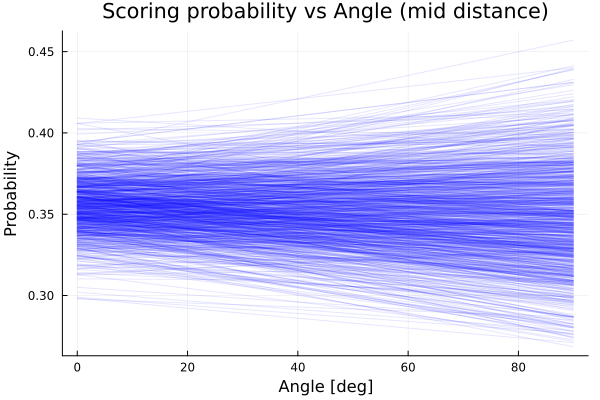
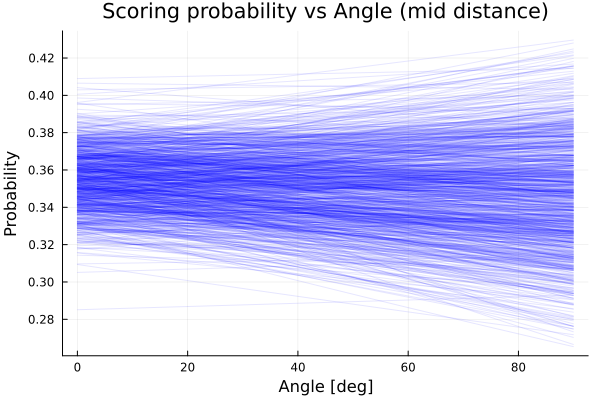
More corrections to chapter 8

Changed region(s): [[0.03, 0.09, 0.96, 0.87], [0.12, 0.9, 0.15, 0.93]]

diff --git a/docs/basketball-shots.html b/docs/basketball-shots.html
@@ -221,7 +221,7 @@ code span.wa { color: #60a0b0; font-weight: bold; font-style: italic; } /* Warni
 <ul>
 <li class="chapter" data-level="8.3.1" data-path="basketball-shots.html"><a href="basketball-shots.html#defining-the-new-model-and-computing-posteriors"><i class="fa fa-check"></i><b>8.3.1</b> Defining the new model and computing posteriors</a></li>
 </ul></li>
-<li class="chapter" data-level="8.4" data-path="basketball-shots.html"><a href="basketball-shots.html#does-the-period-affect-the-probability-of-scoring"><i class="fa fa-check"></i><b>8.4</b> Does the Period affect the probability of scoring?</a></li>
+<li class="chapter" data-level="8.4" data-path="basketball-shots.html"><a href="basketball-shots.html#does-the-period-affect-the-scoring-probability"><i class="fa fa-check"></i><b>8.4</b> Does the Period affect the scoring probability?</a></li>
 <li class="chapter" data-level="8.5" data-path="basketball-shots.html"><a href="basketball-shots.html#summary-6"><i class="fa fa-check"></i><b>8.5</b> Summary</a></li>
 </ul></li>
 <li class="chapter" data-level="9" data-path="optimal-pricing.html"><a href="optimal-pricing.html"><i class="fa fa-check"></i><b>9</b> Optimal pricing</a>
@@ -424,7 +424,7 @@ We update our model as follows:</p>
 <span id="cb13-4"><a href="basketball-shots.html#cb13-4" aria-hidden="true" tabindex="-1"></a><span class="cf">end</span></span>
 <span id="cb13-5"><a href="basketball-shots.html#cb13-5" aria-hidden="true" tabindex="-1"></a><span class="fu">xlabel!</span>(<span class="st">&quot;Normalized distance&quot;</span>);</span>
 <span id="cb13-6"><a href="basketball-shots.html#cb13-6" aria-hidden="true" tabindex="-1"></a><span class="fu">ylabel!</span>(<span class="st">&quot;Predicted probability&quot;</span>);</span>
-<span id="cb13-7"><a href="basketball-shots.html#cb13-7" aria-hidden="true" tabindex="-1"></a><span class="fu">title!</span>(<span class="st">&quot;Prior predictive values for p with negative LogNormal prior&quot;</span>)</span></code></pre></div>
+<span id="cb13-7"><a href="basketball-shots.html#cb13-7" aria-hidden="true" tabindex="-1"></a><span class="fu">title!</span>(<span class="st">&quot;Prior predictive values with negative LogNormal prior&quot;</span>)</span></code></pre></div>
 <p><img src="data_science_in_julia_for_hackers_files/figure-html/chap_8_plot_9-J1.png" /><!-- --></p>
 <p>Now the behavior we can see from the predicted <span class="math inline">\(p\)</span> curves is the expected. As the shooting distance increases, the probability of scoring decreases.
 We have set some boundaries in the form of a different prior probability distribution. This process is what is called prior-predictive checks.
@@ -474,38 +474,46 @@ what is showed next to each traceplot.</p>
 <span id="cb20-6"><a href="basketball-shots.html#cb20-6" aria-hidden="true" tabindex="-1"></a><span class="fu">ylabel!</span>(<span class="st">&quot;Probability&quot;</span>);</span>
 <span id="cb20-7"><a href="basketball-shots.html#cb20-7" aria-hidden="true" tabindex="-1"></a><span class="fu">title!</span>(<span class="st">&quot;Scoring probability vs Normalized distance (angle=45°)&quot;</span>)</span></code></pre></div>
 <p><img src="data_science_in_julia_for_hackers_files/figure-html/chap_8_plot_11-J1.png" /><!-- --></p>
-<p>The plot shows that the probability of scoring is higher as our distance to the hoop decrease, which makes sense, since the difficulty of
-scoring increase.</p>
-<p>We plot now how the probability varies with the angle for a given distance. Here we plot for a mid distance, corresponding to 0.5 in a
-normalized distance.</p>
+<p>We clearly see how our initial beliefs got adjusted with the data. Although initially the decreasing scoring probability with increasing distance
+behavior was correct, there was a lot of uncertainty about the expected value. What this last plot shows is how the possible values of <code>p</code> narrowed
+as we updated our beliefs with data.</p>
+<p>We already plotted how the scoring probability changes with respect to the distance from the hoop, but what about the angle? In principle, we
+could think that this should not be too relevant, since there is no special advantage on changing the angle from where we make our shot, but let’s
+see what does our model say when showing some real data to it. Just to keep the distance constant and only take into account the angle change, we
+plot for a miiddle distance, i.e., <span class="math inline">\(0.5\)</span> in a normalized distance.</p>
 <div class="sourceCode" id="cb21"><pre class="sourceCode julia"><code class="sourceCode julia"><span id="cb21-1"><a href="basketball-shots.html#cb21-1" aria-hidden="true" tabindex="-1"></a>p_constant_distance <span class="op">=</span> []</span>
 <span id="cb21-2"><a href="basketball-shots.html#cb21-2" aria-hidden="true" tabindex="-1"></a><span class="cf">for</span> i <span class="kw">in</span> <span class="fl">1</span><span class="op">:</span><span class="fu">length</span>(chain[<span class="op">:</span>a])</span>
 <span id="cb21-3"><a href="basketball-shots.html#cb21-3" aria-hidden="true" tabindex="-1"></a>    <span class="fu">push!</span>(p_constant_distance, <span class="fu">logistic</span>.(chain[<span class="op">:</span>a][i] <span class="op">.-</span> chain[<span class="op">:</span>b][i]<span class="op">.*</span><span class="fl">0.5</span> <span class="op">.+</span> chain[<span class="op">:</span>c][i]<span class="op">.*</span>possible_angles));</span>
 <span id="cb21-4"><a href="basketball-shots.html#cb21-4" aria-hidden="true" tabindex="-1"></a><span class="cf">end</span></span></code></pre></div>
-<div class="sourceCode" id="cb22"><pre class="sourceCode julia"><code class="sourceCode julia"><span id="cb22-1"><a href="basketball-shots.html#cb22-1" aria-hidden="true" tabindex="-1"></a><span class="fu">plot</span>(<span class="fu">rad2deg</span>.(possible_angles),p_constant_distance[<span class="fl">1</span>], legend<span class="op">=</span><span class="cn">false</span>, alpha<span class="op">=</span><span class="fl">0.1</span>, color<span class="op">=:</span>blue);</span>
+<div class="sourceCode" id="cb22"><pre class="sourceCode julia"><code class="sourceCode julia"><span id="cb22-1"><a href="basketball-shots.html#cb22-1" aria-hidden="true" tabindex="-1"></a><span class="fu">plot</span>(<span class="fu">rad2deg</span>.(possible_angles), p_constant_distance[<span class="fl">1</span>], legend<span class="op">=</span><span class="cn">false</span>, alpha<span class="op">=</span><span class="fl">0.1</span>, color<span class="op">=:</span>blue);</span>
 <span id="cb22-2"><a href="basketball-shots.html#cb22-2" aria-hidden="true" tabindex="-1"></a><span class="cf">for</span> i <span class="kw">in</span> <span class="fl">2</span><span class="op">:</span><span class="fl">1000</span></span>
-<span id="cb22-3"><a href="basketball-shots.html#cb22-3" aria-hidden="true" tabindex="-1"></a>    <span class="fu">plot!</span>(<span class="fu">rad2deg</span>.(possible_angles),p_constant_distance[i], alpha<span class="op">=</span><span class="fl">0.1</span>, color<span class="op">=:</span>blue);</span>
+<span id="cb22-3"><a href="basketball-shots.html#cb22-3" aria-hidden="true" tabindex="-1"></a>    <span class="fu">plot!</span>(<span class="fu">rad2deg</span>.(possible_angles), p_constant_distance[i], alpha<span class="op">=</span><span class="fl">0.1</span>, color<span class="op">=:</span>blue);</span>
 <span id="cb22-4"><a href="basketball-shots.html#cb22-4" aria-hidden="true" tabindex="-1"></a><span class="cf">end</span></span>
 <span id="cb22-5"><a href="basketball-shots.html#cb22-5" aria-hidden="true" tabindex="-1"></a><span class="fu">xlabel!</span>(<span class="st">&quot;Angle [deg]&quot;</span>);</span>
 <span id="cb22-6"><a href="basketball-shots.html#cb22-6" aria-hidden="true" tabindex="-1"></a><span class="fu">ylabel!</span>(<span class="st">&quot;Probability&quot;</span>);</span>
 <span id="cb22-7"><a href="basketball-shots.html#cb22-7" aria-hidden="true" tabindex="-1"></a><span class="fu">title!</span>(<span class="st">&quot;Scoring probability vs Angle (mid distance)&quot;</span>)</span></code></pre></div>
 <p><img src="data_science_in_julia_for_hackers_files/figure-html/chap_8_plot_13-J1.png" /><!-- --></p>
-<p>We see that the model predicts almost constant probability as we vary the angle. This makes sense, considering that the angle doesn’t seem too
-relevant when shooting; the distance from the hoop is the relevant variable.</p>
+<p>We see that the model predicts almost constant average probability as we vary the angle.
+This is consistent with what we already suspected, although we see there is more uncertainty about the scoring probability as we move from
+0° to 90°. In conclusion, the angle doesn’t seem too important when shooting; the distance from the hoop is the relevant variable.</p>
 </div>
 </div>
 </div>
 <div id="new-model-and-prior-predictive-checks-part-ii" class="section level2 hasAnchor" number="8.3">
 <h2><span class="header-section-number">8.3</span> New model and prior predictive checks: Part II<a href="basketball-shots.html#new-model-and-prior-predictive-checks-part-ii" class="anchor-section" aria-label="Anchor link to header"></a></h2>
+<p>&lt;Why was this model chosen?&gt;</p>
 <p>Now we propose another model with the form:</p>
-<p><span class="math inline">\(p\sim logistic(a+ b^{distance[i]} + c*angle[i])\)</span></p>
-<p>*But for what values of b the model makes sense?</p>
-<p>We show below the plot for 4 function with 4 possible values of <span class="math inline">\(b\)</span>, having in mind that the values of <span class="math inline">\(x\)</span>, the normalized distance, goes
-from 0 to 1.</p>
+<p><span class="math inline">\(p\sim logistic(a + b^{distance[i]} + c*angle[i])\)</span></p>
+<p>*But for what values of b the model makes sense?
+Here we basically changed the dependence of the model with distance. We now have the parameter <span class="math inline">\(b\)</span> to the power of the distance from the hoop.
+We should ask ourselves, like we did with the other proposed models: Would every possible value of <span class="math inline">\(b\)</span> make sense? Let’s dig into this question.</p>
+<p>Below we plot four function with four different possible values of <span class="math inline">\(b\)</span>, having in mind that the values of <span class="math inline">\(x\)</span>, the normalized distance, goes
+from 0 to 1. These functions are</p>
 <div class="sourceCode" id="cb23"><pre class="sourceCode julia"><code class="sourceCode julia"><span id="cb23-1"><a href="basketball-shots.html#cb23-1" aria-hidden="true" tabindex="-1"></a><span class="fu">f1</span>(x) <span class="op">=</span> <span class="fl">0.3</span><span class="op">^</span>x</span>
 <span id="cb23-2"><a href="basketball-shots.html#cb23-2" aria-hidden="true" tabindex="-1"></a><span class="fu">f2</span>(x) <span class="op">=</span> <span class="fl">1.5</span><span class="op">^</span>x</span>
 <span id="cb23-3"><a href="basketball-shots.html#cb23-3" aria-hidden="true" tabindex="-1"></a><span class="fu">f3</span>(x) <span class="op">=</span> <span class="op">-</span><span class="fl">0.3</span><span class="op">^</span>x</span>
 <span id="cb23-4"><a href="basketball-shots.html#cb23-4" aria-hidden="true" tabindex="-1"></a><span class="fu">f4</span>(x) <span class="op">=</span> <span class="op">-</span><span class="fl">1.5</span><span class="op">^</span>x</span></code></pre></div>
+<p>and their plots are</p>
 <div class="sourceCode" id="cb24"><pre class="sourceCode julia"><code class="sourceCode julia"><span id="cb24-1"><a href="basketball-shots.html#cb24-1" aria-hidden="true" tabindex="-1"></a><span class="fu">plot</span>(<span class="fl">0</span><span class="op">:</span><span class="fl">0.01</span><span class="op">:</span><span class="fl">1</span>, f1, label<span class="op">=</span><span class="st">&quot;f1: b &lt; 1 &amp; b &gt; 0&quot;</span>, xlim<span class="op">=</span>(<span class="fl">0</span>,<span class="fl">1</span>), ylim<span class="op">=</span>(<span class="op">-</span><span class="fl">2</span>,<span class="fl">2</span>), lw<span class="op">=</span><span class="fl">3</span>);</span>
 <span id="cb24-2"><a href="basketball-shots.html#cb24-2" aria-hidden="true" tabindex="-1"></a><span class="fu">plot!</span>(<span class="fl">0</span><span class="op">:</span><span class="fl">0.01</span><span class="op">:</span><span class="fl">1</span>, f2, label<span class="op">=</span><span class="st">&quot;f2: b&gt;1&quot;</span>, lw<span class="op">=</span><span class="fl">3</span>);</span>
 <span id="cb24-3"><a href="basketball-shots.html#cb24-3" aria-hidden="true" tabindex="-1"></a><span class="fu">plot!</span>(<span class="fl">0</span><span class="op">:</span><span class="fl">0.01</span><span class="op">:</span><span class="fl">1</span>, f3, label<span class="op">=</span><span class="st">&quot;f3: b&lt;0 &amp; b&gt;-1&quot;</span>, lw<span class="op">=</span><span class="fl">3</span>);</span>
@@ -513,11 +521,14 @@ from 0 to 1.</p>
 <span id="cb24-5"><a href="basketball-shots.html#cb24-5" aria-hidden="true" tabindex="-1"></a><span class="fu">xlabel!</span>(<span class="st">&quot;Normalized distance&quot;</span>);</span>
 <span id="cb24-6"><a href="basketball-shots.html#cb24-6" aria-hidden="true" tabindex="-1"></a><span class="fu">title!</span>(<span class="st">&quot;Prior Predictive influence of distance&quot;</span>)</span></code></pre></div>
 <p><img src="data_science_in_julia_for_hackers_files/figure-html/chap_8_plot_14-J1.png" /><!-- --></p>
-<p>Analysing the possible values for <span class="math inline">\(b\)</span>, the one that makes sense is the value proposed in f1, since we want an increasing influence of the
-distance in the values of <span class="math inline">\(p\)</span> as the distance decreases, since the logistic function has higher values for higher values of x.
-So now that we know the values the our parameter <span class="math inline">\(b\)</span> can take, we propose for it a beta distribution with parameters α=2 and β=5, showed in
-the plot below.</p>
-<div class="sourceCode" id="cb25"><pre class="sourceCode julia"><code class="sourceCode julia"><span id="cb25-1"><a href="basketball-shots.html#cb25-1" aria-hidden="true" tabindex="-1"></a><span class="fu">plot</span>(<span class="fu">Beta</span>(<span class="fl">2</span>,<span class="fl">5</span>), xlim<span class="op">=</span>(<span class="op">-</span><span class="fl">0.1</span>,<span class="fl">1</span>), legend<span class="op">=</span><span class="cn">false</span>);</span>
+<p>As we can see, the qualitative behavior of these functions is different for each of the chosen values for <span class="math inline">\(b\)</span>. The only one of these values that
+is consistent with our common sense, is the one proposed for <span class="math inline">\(f_1\)</span>, as we want it to be a decreasing function for the distance variable. In other
+words, we want <span class="math inline">\(b\)</span> to be in the range from 0 to 1, and to be positive.
+Now that we have limited the range of values that <span class="math inline">\(b\)</span> can take, we should propose a probability distribution that satisfies the constraints the
+parameter should have. For this, we propose a Beta distribution with parameters <span class="math inline">\(α=2\)</span> and <span class="math inline">\(β=2\)</span>.
+We chose these distribution since it is only defined in the interval we are interesed on, and the value of the parameters so that the distribution
+is symmetrical, i.e., not biased towards the start or the end of the range from 0 to 1.</p>
+<div class="sourceCode" id="cb25"><pre class="sourceCode julia"><code class="sourceCode julia"><span id="cb25-1"><a href="basketball-shots.html#cb25-1" aria-hidden="true" tabindex="-1"></a><span class="fu">plot</span>(<span class="fu">Beta</span>(<span class="fl">2</span>,<span class="fl">2</span>), xlim<span class="op">=</span>(<span class="op">-</span><span class="fl">0.1</span>,<span class="fl">1</span>), legend<span class="op">=</span><span class="cn">false</span>);</span>
 <span id="cb25-2"><a href="basketball-shots.html#cb25-2" aria-hidden="true" tabindex="-1"></a><span class="fu">title!</span>(<span class="st">&quot;Prior distribution for b&quot;</span>)</span></code></pre></div>
 <p><img src="data_science_in_julia_for_hackers_files/figure-html/chap_8_plot_15-J1.png" /><!-- --></p>
 <div id="defining-the-new-model-and-computing-posteriors" class="section level3 hasAnchor" number="8.3.1">
@@ -527,7 +538,7 @@ the plot below.</p>
 <span id="cb26-2"><a href="basketball-shots.html#cb26-2" aria-hidden="true" tabindex="-1"></a>  N <span class="op">=</span> <span class="fu">length</span>(distances)</span>
 <span id="cb26-3"><a href="basketball-shots.html#cb26-3" aria-hidden="true" tabindex="-1"></a>  <span class="co"># Set priors.</span></span>
 <span id="cb26-4"><a href="basketball-shots.html#cb26-4" aria-hidden="true" tabindex="-1"></a>    a <span class="op">~</span> <span class="fu">Normal</span>(<span class="fl">0</span>,<span class="fl">1</span>) </span>
-<span id="cb26-5"><a href="basketball-shots.html#cb26-5" aria-hidden="true" tabindex="-1"></a>    b <span class="op">~</span> <span class="fu">Beta</span>(<span class="fl">2</span>,<span class="fl">5</span>)</span>
+<span id="cb26-5"><a href="basketball-shots.html#cb26-5" aria-hidden="true" tabindex="-1"></a>    b <span class="op">~</span> <span class="fu">Beta</span>(<span class="fl">2</span>,<span class="fl">2</span>)</span>
 <span id="cb26-6"><a href="basketball-shots.html#cb26-6" aria-hidden="true" tabindex="-1"></a>    c <span class="op">~</span> <span class="fu">Normal</span>(<span class="fl">0</span>,<span class="fl">1</span>)</span>
 <span id="cb26-7"><a href="basketball-shots.html#cb26-7" aria-hidden="true" tabindex="-1"></a>    <span class="cf">for</span> i <span class="kw">in</span> <span class="fl">1</span><span class="op">:</span>n</span>
 <span id="cb26-8"><a href="basketball-shots.html#cb26-8" aria-hidden="true" tabindex="-1"></a>        p <span class="op">=</span> <span class="fu">logistic</span>(a <span class="op">+</span>  b <span class="op">.^</span> distances[i] <span class="op">+</span> c<span class="op">*</span>angles[i])</span>
@@ -555,7 +566,7 @@ shown below.</p>
 <span id="cb31-6"><a href="basketball-shots.html#cb31-6" aria-hidden="true" tabindex="-1"></a><span class="fu">ylabel!</span>(<span class="st">&quot;Probability&quot;</span>);</span>
 <span id="cb31-7"><a href="basketball-shots.html#cb31-7" aria-hidden="true" tabindex="-1"></a><span class="fu">title!</span>(<span class="st">&quot;Scoring probability vs Normalized distance (angle=45°)&quot;</span>)</span></code></pre></div>
 <p><img src="data_science_in_julia_for_hackers_files/figure-html/chap_8_plot_17-J1.png" /><!-- --></p>
-<p>Given that we have 2 variables, we can plot the mean probability of scoring as function of the two and obtain a surface plot. We show this below.</p>
+<p>Given that we have 2 variables, we can plot the mean probability of scoring as function of the two and obtain a surface plot, too:</p>
 <div class="sourceCode" id="cb32"><pre class="sourceCode julia"><code class="sourceCode julia"><span id="cb32-1"><a href="basketball-shots.html#cb32-1" aria-hidden="true" tabindex="-1"></a>angle_ <span class="op">=</span> <span class="fu">collect</span>(<span class="fu">range</span>(<span class="fl">0</span>, stop<span class="op">=</span><span class="cn">π</span><span class="op">/</span><span class="fl">2</span>, length<span class="op">=</span><span class="fl">100</span>))</span>
 <span id="cb32-2"><a href="basketball-shots.html#cb32-2" aria-hidden="true" tabindex="-1"></a>dist_ <span class="op">=</span> <span class="fu">collect</span>(<span class="fu">range</span>(<span class="fl">0</span>, stop<span class="op">=</span><span class="fl">1</span>, length<span class="op">=</span><span class="fl">100</span>))</span>
 <span id="cb32-3"><a href="basketball-shots.html#cb32-3" aria-hidden="true" tabindex="-1"></a>it <span class="op">=</span> <span class="bu">Iterators</span>.<span class="fu">product</span>(angle_, dist_)</span>
@@ -565,30 +576,31 @@ shown below.</p>
 <span id="cb32-7"><a href="basketball-shots.html#cb32-7" aria-hidden="true" tabindex="-1"></a>dist_grid <span class="op">=</span> <span class="fu">getindex</span>.(values,[<span class="fl">2</span>])</span>
 <span id="cb32-8"><a href="basketball-shots.html#cb32-8" aria-hidden="true" tabindex="-1"></a>z <span class="op">=</span> <span class="fu">logistic</span>.(<span class="fu">mean</span>(chain_exp[<span class="op">:</span>a]) <span class="op">.+</span> <span class="fu">mean</span>(chain_exp[<span class="op">:</span>b])<span class="op">.^</span>dist_grid <span class="op">.+</span> <span class="fu">mean</span>(chain_exp[<span class="op">:</span>c])<span class="op">.*</span>angle_grid)</span></code></pre></div>
 <p><img src="data_science_in_julia_for_hackers_files/figure-html/chap_8_plot_18-J1.png" /><!-- --></p>
-<p>The plot show the behaviour expected, an increasing probability of scoring as we get near the hoop. We also see that there is almost no variation
+<p>The plot shows the expected behavior, an increasing probability of scoring as we get near the hoop. We also see that there is almost no variation
 of the probability with the angle.</p>
 </div>
 </div>
-<div id="does-the-period-affect-the-probability-of-scoring" class="section level2 hasAnchor" number="8.4">
-<h2><span class="header-section-number">8.4</span> Does the Period affect the probability of scoring?<a href="basketball-shots.html#does-the-period-affect-the-probability-of-scoring" class="anchor-section" aria-label="Anchor link to header"></a></h2>
-<p>Now we will try to answer this question. We propose then a model, and calculate the posterior for its parameters with data of one of each of the
-four possible periods. We define the same model for all four periods. Also, we don’t take into account now the angle variable, since we have seen
-before that this variable is of little importance.</p>
-<p>We filter then our data by its period and proceed to estimate our posterior distributions.</p>
-<div class="sourceCode" id="cb33"><pre class="sourceCode julia"><code class="sourceCode julia"><span id="cb33-1"><a href="basketball-shots.html#cb33-1" aria-hidden="true" tabindex="-1"></a>shots_period1<span class="op">=</span> <span class="fu">filter</span>(x <span class="op">-&gt;</span> x.period <span class="op">==</span> <span class="fl">1</span>, shots)</span></code></pre></div>
+<div id="does-the-period-affect-the-scoring-probability" class="section level2 hasAnchor" number="8.4">
+<h2><span class="header-section-number">8.4</span> Does the Period affect the scoring probability?<a href="basketball-shots.html#does-the-period-affect-the-scoring-probability" class="anchor-section" aria-label="Anchor link to header"></a></h2>
+<p>We have been using the scoring data across all periods, but what about how the scoring probability changes across periods?
+We will propose a model and calculate the posterior for its parameters with scoring data of each of the four possible periods. The exact
+same model for all four periods will be used. The angle variable will be discarded from the model, as we have already saw that is of little
+importance.</p>
+<p>We filter our data by period and proceed to estimate our posterior distributions.</p>
+<div class="sourceCode" id="cb33"><pre class="sourceCode julia"><code class="sourceCode julia"><span id="cb33-1"><a href="basketball-shots.html#cb33-1" aria-hidden="true" tabindex="-1"></a>shots_period1 <span class="op">=</span> <span class="fu">filter</span>(x <span class="op">-&gt;</span> x.period <span class="op">==</span> <span class="fl">1</span>, shots)</span></code></pre></div>
 <div class="sourceCode" id="cb34"><pre class="sourceCode julia"><code class="sourceCode julia"><span id="cb34-1"><a href="basketball-shots.html#cb34-1" aria-hidden="true" tabindex="-1"></a><span class="pp">@model</span> <span class="fu">logistic_regression_period</span>(distances, result,n) <span class="op">=</span> <span class="cf">begin</span></span>
 <span id="cb34-2"><a href="basketball-shots.html#cb34-2" aria-hidden="true" tabindex="-1"></a>  N <span class="op">=</span> <span class="fu">length</span>(distances)</span>
 <span id="cb34-3"><a href="basketball-shots.html#cb34-3" aria-hidden="true" tabindex="-1"></a>  <span class="co"># Set priors.</span></span>
 <span id="cb34-4"><a href="basketball-shots.html#cb34-4" aria-hidden="true" tabindex="-1"></a>    a <span class="op">~</span> <span class="fu">Normal</span>(<span class="fl">0</span>,<span class="fl">1</span>) </span>
 <span id="cb34-5"><a href="basketball-shots.html#cb34-5" aria-hidden="true" tabindex="-1"></a>    b <span class="op">~</span> <span class="fu">Beta</span>(<span class="fl">2</span>,<span class="fl">5</span>)</span>
 <span id="cb34-6"><a href="basketball-shots.html#cb34-6" aria-hidden="true" tabindex="-1"></a>    <span class="cf">for</span> i <span class="kw">in</span> <span class="fl">1</span><span class="op">:</span>n</span>
-<span id="cb34-7"><a href="basketball-shots.html#cb34-7" aria-hidden="true" tabindex="-1"></a>        p <span class="op">=</span> <span class="fu">logistic</span>( a <span class="op">+</span>  b <span class="op">.^</span> distances[i])</span>
+<span id="cb34-7"><a href="basketball-shots.html#cb34-7" aria-hidden="true" tabindex="-1"></a>        p <span class="op">=</span> <span class="fu">logistic</span>(a <span class="op">+</span>  b <span class="op">.^</span> distances[i])</span>
 <span id="cb34-8"><a href="basketball-shots.html#cb34-8" aria-hidden="true" tabindex="-1"></a>        result[i] <span class="op">~</span> <span class="fu">Bernoulli</span>(p)</span>
 <span id="cb34-9"><a href="basketball-shots.html#cb34-9" aria-hidden="true" tabindex="-1"></a>    <span class="cf">end</span></span>
 <span id="cb34-10"><a href="basketball-shots.html#cb34-10" aria-hidden="true" tabindex="-1"></a><span class="cf">end</span></span></code></pre></div>
 <div class="sourceCode" id="cb35"><pre class="sourceCode julia"><code class="sourceCode julia"><span id="cb35-1"><a href="basketball-shots.html#cb35-1" aria-hidden="true" tabindex="-1"></a>n_ <span class="op">=</span> <span class="fl">500</span> </span></code></pre></div>
 <div class="sourceCode" id="cb36"><pre class="sourceCode julia"><code class="sourceCode julia"><span id="cb36-1"><a href="basketball-shots.html#cb36-1" aria-hidden="true" tabindex="-1"></a><span class="co"># Sample using HMC.</span></span>
-<span id="cb36-2"><a href="basketball-shots.html#cb36-2" aria-hidden="true" tabindex="-1"></a>chain_period1 <span class="op">=</span> <span class="fu">mapreduce</span>(c <span class="op">-&gt;</span> <span class="fu">sample</span>(<span class="fu">logistic_regression_period</span>(shots_period1.distance[<span class="fl">1</span><span class="op">:</span>n_] <span class="op">./</span> <span class="fu">maximum</span>(shots_period1.distance[<span class="fl">1</span><span class="op">:</span>n_] ),shots_period1.result[<span class="fl">1</span><span class="op">:</span>n_], n_), <span class="fu">HMC</span>(<span class="fl">0.05</span>, <span class="fl">10</span>), <span class="fl">1500</span>), chainscat, <span class="fl">1</span><span class="op">:</span><span class="fl">3</span>)</span></code></pre></div>
+<span id="cb36-2"><a href="basketball-shots.html#cb36-2" aria-hidden="true" tabindex="-1"></a>chain_period1 <span class="op">=</span> <span class="fu">mapreduce</span>(c <span class="op">-&gt;</span> <span class="fu">sample</span>(<span class="fu">logistic_regression_period</span>(shots_period1.distance[<span class="fl">1</span><span class="op">:</span>n_] <span class="op">./</span> <span class="fu">maximum</span>(shots_period1.distance[<span class="fl">1</span><span class="op">:</span>n_] ), shots_period1.result[<span class="fl">1</span><span class="op">:</span>n_], n_), <span class="fu">HMC</span>(<span class="fl">0.05</span>, <span class="fl">10</span>), <span class="fl">1500</span>), chainscat, <span class="fl">1</span><span class="op">:</span><span class="fl">3</span>)</span></code></pre></div>
 <div class="sourceCode" id="cb37"><pre class="sourceCode julia"><code class="sourceCode julia"><span id="cb37-1"><a href="basketball-shots.html#cb37-1" aria-hidden="true" tabindex="-1"></a>shots_period2 <span class="op">=</span> <span class="fu">filter</span>(x <span class="op">-&gt;</span> x.period <span class="op">==</span> <span class="fl">2</span>, shots)</span></code></pre></div>
 <div class="sourceCode" id="cb38"><pre class="sourceCode julia"><code class="sourceCode julia"><span id="cb38-1"><a href="basketball-shots.html#cb38-1" aria-hidden="true" tabindex="-1"></a><span class="co"># Sample using HMC.</span></span>
 <span id="cb38-2"><a href="basketball-shots.html#cb38-2" aria-hidden="true" tabindex="-1"></a>chain_period2 <span class="op">=</span> <span class="fu">mapreduce</span>(c <span class="op">-&gt;</span> <span class="fu">sample</span>(<span class="fu">logistic_regression_period</span>(shots_period2.distance[<span class="fl">1</span><span class="op">:</span>n_] <span class="op">./</span> <span class="fu">maximum</span>(shots_period2.distance[<span class="fl">1</span><span class="op">:</span>n_] ), shots_period2.result[<span class="fl">1</span><span class="op">:</span>n_], n_), <span class="fu">HMC</span>(<span class="fl">0.05</span>, <span class="fl">10</span>), <span class="fl">1500</span>),</span>
@@ -608,13 +620,13 @@ before that this variable is of little importance.</p>
 <span id="cb42-4"><a href="basketball-shots.html#cb42-4" aria-hidden="true" tabindex="-1"></a>    <span class="fl">1</span><span class="op">:</span><span class="fl">3</span></span>
 <span id="cb42-5"><a href="basketball-shots.html#cb42-5" aria-hidden="true" tabindex="-1"></a>);</span></code></pre></div>
 <div class="sourceCode" id="cb43"><pre class="sourceCode julia"><code class="sourceCode julia"><span id="cb43-1"><a href="basketball-shots.html#cb43-1" aria-hidden="true" tabindex="-1"></a>p_period1 <span class="op">=</span> <span class="fu">logistic</span>.(<span class="fu">mean</span>(chain_period1[<span class="op">:</span>a]) <span class="op">.+</span> <span class="fu">mean</span>(chain_period1[<span class="op">:</span>b])<span class="op">.^</span>possible_distances )</span>
-<span id="cb43-2"><a href="basketball-shots.html#cb43-2" aria-hidden="true" tabindex="-1"></a>p_period1_std <span class="op">=</span> <span class="fu">logistic</span>.((<span class="fu">mean</span>(chain_period1[<span class="op">:</span>a])<span class="op">.+</span><span class="fu">std</span>(chain_period1[<span class="op">:</span>a])) <span class="op">.+</span> (<span class="fu">mean</span>(chain_period1[<span class="op">:</span>b])<span class="op">.+</span><span class="fu">std</span>(chain_period1[<span class="op">:</span>a]))<span class="op">.^</span>possible_distances)</span>
+<span id="cb43-2"><a href="basketball-shots.html#cb43-2" aria-hidden="true" tabindex="-1"></a>p_period1_std <span class="op">=</span> <span class="fu">logistic</span>.((<span class="fu">mean</span>(chain_period1[<span class="op">:</span>a]) <span class="op">.+</span> <span class="fu">std</span>(chain_period1[<span class="op">:</span>a])) <span class="op">.+</span> (<span class="fu">mean</span>(chain_period1[<span class="op">:</span>b]) <span class="op">.+</span> <span class="fu">std</span>(chain_period1[<span class="op">:</span>a]))<span class="op">.^</span>possible_distances)</span>
 <span id="cb43-3"><a href="basketball-shots.html#cb43-3" aria-hidden="true" tabindex="-1"></a>p_period2 <span class="op">=</span> <span class="fu">logistic</span>.(<span class="fu">mean</span>(chain_period2[<span class="op">:</span>a]) <span class="op">.+</span> <span class="fu">mean</span>(chain_period2[<span class="op">:</span>b])<span class="op">.^</span>possible_distances )</span>
-<span id="cb43-4"><a href="basketball-shots.html#cb43-4" aria-hidden="true" tabindex="-1"></a>p_period2_std <span class="op">=</span> <span class="fu">logistic</span>.((<span class="fu">mean</span>(chain_period2[<span class="op">:</span>a])<span class="op">.+</span><span class="fu">std</span>(chain_period2[<span class="op">:</span>a])) <span class="op">.+</span> (<span class="fu">mean</span>(chain_period2[<span class="op">:</span>b])<span class="op">.+</span><span class="fu">std</span>(chain_period2[<span class="op">:</span>a]))<span class="op">.^</span>possible_distances)</span>
+<span id="cb43-4"><a href="basketball-shots.html#cb43-4" aria-hidden="true" tabindex="-1"></a>p_period2_std <span class="op">=</span> <span class="fu">logistic</span>.((<span class="fu">mean</span>(chain_period2[<span class="op">:</span>a]) <span class="op">.+</span> <span class="fu">std</span>(chain_period2[<span class="op">:</span>a])) <span class="op">.+</span> (<span class="fu">mean</span>(chain_period2[<span class="op">:</span>b]) <span class="op">.+</span> <span class="fu">std</span>(chain_period2[<span class="op">:</span>a]))<span class="op">.^</span>possible_distances)</span>
 <span id="cb43-5"><a href="basketball-shots.html#cb43-5" aria-hidden="true" tabindex="-1"></a>p_period3 <span class="op">=</span> <span class="fu">logistic</span>.(<span class="fu">mean</span>(chain_period3[<span class="op">:</span>a]) <span class="op">.+</span> <span class="fu">mean</span>(chain_period3[<span class="op">:</span>b])<span class="op">.^</span>possible_distances)</span>
-<span id="cb43-6"><a href="basketball-shots.html#cb43-6" aria-hidden="true" tabindex="-1"></a>p_period3_std <span class="op">=</span> <span class="fu">logistic</span>.((<span class="fu">mean</span>(chain_period3[<span class="op">:</span>a])<span class="op">.+</span><span class="fu">std</span>(chain_period3[<span class="op">:</span>a])) <span class="op">.+</span> (<span class="fu">mean</span>(chain_period3[<span class="op">:</span>b])<span class="op">.+</span><span class="fu">std</span>(chain_period3[<span class="op">:</span>a]))<span class="op">.^</span>possible_distances)</span>
+<span id="cb43-6"><a href="basketball-shots.html#cb43-6" aria-hidden="true" tabindex="-1"></a>p_period3_std <span class="op">=</span> <span class="fu">logistic</span>.((<span class="fu">mean</span>(chain_period3[<span class="op">:</span>a]) <span class="op">.+</span> <span class="fu">std</span>(chain_period3[<span class="op">:</span>a])) <span class="op">.+</span> (<span class="fu">mean</span>(chain_period3[<span class="op">:</span>b]) <span class="op">.+</span> <span class="fu">std</span>(chain_period3[<span class="op">:</span>a]))<span class="op">.^</span>possible_distances)</span>
 <span id="cb43-7"><a href="basketball-shots.html#cb43-7" aria-hidden="true" tabindex="-1"></a>p_period4 <span class="op">=</span> <span class="fu">logistic</span>.(<span class="fu">mean</span>(chain_period4[<span class="op">:</span>a]) <span class="op">.+</span> <span class="fu">mean</span>(chain_period4[<span class="op">:</span>b])<span class="op">.^</span>possible_distances )</span>
-<span id="cb43-8"><a href="basketball-shots.html#cb43-8" aria-hidden="true" tabindex="-1"></a>p_period4_std <span class="op">=</span> <span class="fu">logistic</span>.((<span class="fu">mean</span>(chain_period4[<span class="op">:</span>a])<span class="op">.+</span><span class="fu">std</span>(chain_period4[<span class="op">:</span>a])) <span class="op">.+</span> (<span class="fu">mean</span>(chain_period4[<span class="op">:</span>b])<span class="op">.+</span><span class="fu">std</span>(chain_period4[<span class="op">:</span>a]))<span class="op">.^</span>possible_distances )</span></code></pre></div>
+<span id="cb43-8"><a href="basketball-shots.html#cb43-8" aria-hidden="true" tabindex="-1"></a>p_period4_std <span class="op">=</span> <span class="fu">logistic</span>.((<span class="fu">mean</span>(chain_period4[<span class="op">:</span>a]) <span class="op">.+</span> <span class="fu">std</span>(chain_period4[<span class="op">:</span>a])) <span class="op">.+</span> (<span class="fu">mean</span>(chain_period4[<span class="op">:</span>b]) <span class="op">.+</span> <span class="fu">std</span>(chain_period4[<span class="op">:</span>a]))<span class="op">.^</span>possible_distances)</span></code></pre></div>
 <p>We plot now for each period the probability of scoring for each period, each mean and one standard deviation from it.</p>
 <div class="sourceCode" id="cb44"><pre class="sourceCode julia"><code class="sourceCode julia"><span id="cb44-1"><a href="basketball-shots.html#cb44-1" aria-hidden="true" tabindex="-1"></a><span class="fu">plot</span>(possible_distances, p_period4,ribbon<span class="op">=</span>p_period4_std<span class="op">.-</span>p_period4,  color<span class="op">=:</span>magenta, label<span class="op">=</span><span class="st">&quot;period4&quot;</span>, fillalpha<span class="op">=</span><span class="fl">.3</span>, ylim<span class="op">=</span>(<span class="fl">0</span>,<span class="fl">0.6</span>));</span>
 <span id="cb44-2"><a href="basketball-shots.html#cb44-2" aria-hidden="true" tabindex="-1"></a><span class="fu">plot!</span>(possible_distances, p_period2, color<span class="op">=:</span>green, ribbon<span class="op">=</span>p_period2_std<span class="op">.-</span>p_period2, label<span class="op">=</span><span class="st">&quot;period2&quot;</span>, fillalpha<span class="op">=</span><span class="fl">.3</span>);</span>
@@ -623,25 +635,28 @@ before that this variable is of little importance.</p>
 <span id="cb44-5"><a href="basketball-shots.html#cb44-5" aria-hidden="true" tabindex="-1"></a><span class="fu">xlabel!</span>(<span class="st">&quot;Normalized distance&quot;</span>);</span>
 <span id="cb44-6"><a href="basketball-shots.html#cb44-6" aria-hidden="true" tabindex="-1"></a><span class="fu">ylabel!</span>(<span class="st">&quot;Scoring probability&quot;</span>)</span></code></pre></div>
 <p><img src="data_science_in_julia_for_hackers_files/figure-html/chap_8_plot_19-J1.png" /><!-- --></p>
-<p>Finally, we see that for the periods 1 and 4, the first and the last periods, the probabity of scoring is slightly higher than the other two
-periods, meaning that players are somewhat better scoring in those periods.</p>
+<p>Comparing the means of each period, we see that for the periods 1 and 4, the first and the last periods, the scoring probability is slightly
+higher than the other two periods. There are a bunch of possible explanations for these results. Clearly in the first period, players are most
+effective due to being with the most energy. In period 4, new players have substituted the old ones, and also have a lot of energy, while in periods
+2 and 3, there is a tendency for more tired players that have not been substituted. These hypothesis should be tested to know if they are correct,
+but it is a starting point for more data analysis.</p>
 </div>
 <div id="summary-6" class="section level2 hasAnchor" number="8.5">
 <h2><span class="header-section-number">8.5</span> Summary<a href="basketball-shots.html#summary-6" class="anchor-section" aria-label="Anchor link to header"></a></h2>
 <p>In this chapter, we used the NBA shooting data of the season 2006-2007 to analyze how the scoring probability is affected by some variables,
-such as the distance from the hoop and the angle of shooting.</p>
+such as the distance from the hoop and the shooting angle.</p>
 <p>First, we inspected the data by plotting a heatplot of all the shots made and making histograms of the ones that scored.
-As our goal was to study the probability of scoring, which is a Bernoulli trial situation, we decided to use a Bernoulli model.
+As our goal was to study the scoring probability, which is a Bernoulli trial situation, we decided to use a Bernoulli model.
 Since the only parameter needed in a Bernoulli distribution is the probability <span class="math inline">\(p\)</span> of having a success, we modeled <span class="math inline">\(p\)</span> as a logistic function:
 <span class="math inline">\(p\sim logistic(a+ b*distance[i] + c*angle[i])\)</span></p>
-<p>We set the prior probability of the parameters <span class="math inline">\(a\)</span> and <span class="math inline">\(c\)</span> to a normal distribution and <span class="math inline">\(b\)</span> to a log-normal one.
-Thus, we constructed our logistic regression model and sampled it using the Markov Monte Carlo algorithm.
+<p>We set the prior probability of the parameters <span class="math inline">\(a\)</span> and <span class="math inline">\(c\)</span> to a Normal distribution and <span class="math inline">\(b\)</span> to a LogNormal one.
+Thus, we constructed our logistic regression model and sampled it using the Markov Monte Carlo algorithm (MCMC).
 To gain a better understanding of the sampling process, we made a traceplot that shows the sampled values in a sequential order.</p>
-<p>Later, we decided to try with a more complex logistic regression model, similar to the first one but this time modifying the distance parameter:
+<p>Later, we decided to try with a more complex logistic regression model, similar to the first one but this time modifying the distance dependency:
 <span class="math inline">\(p\sim logistic(a+ b^{distance[i]} + c*angle[i])\)</span></p>
 <p>We set the prior distribution of <span class="math inline">\(b\)</span> to a beta distribution and constructed the second logistic regression model, sampled it and plotted the
 results.</p>
-<p>Finally, we analyzed the results to see if the period of the game affects the probability of scoring.</p>
+<p>Finally, we analyzed the results to see if the period of the game affects the scoring probability.</p>
 
 </div>
 </div>

diff --git a/docs/404.html b/docs/404.html
@@ -221,7 +221,7 @@ code span.wa { color: #60a0b0; font-weight: bold; font-style: italic; } /* Warni
 <ul>
 <li class="chapter" data-level="8.3.1" data-path="basketball-shots.html"><a href="basketball-shots.html#defining-the-new-model-and-computing-posteriors"><i class="fa fa-check"></i><b>8.3.1</b> Defining the new model and computing posteriors</a></li>
 </ul></li>
-<li class="chapter" data-level="8.4" data-path="basketball-shots.html"><a href="basketball-shots.html#does-the-period-affect-the-probability-of-scoring"><i class="fa fa-check"></i><b>8.4</b> Does the Period affect the probability of scoring?</a></li>
+<li class="chapter" data-level="8.4" data-path="basketball-shots.html"><a href="basketball-shots.html#does-the-period-affect-the-scoring-probability"><i class="fa fa-check"></i><b>8.4</b> Does the Period affect the scoring probability?</a></li>
 <li class="chapter" data-level="8.5" data-path="basketball-shots.html"><a href="basketball-shots.html#summary-6"><i class="fa fa-check"></i><b>8.5</b> Summary</a></li>
 </ul></li>
 <li class="chapter" data-level="9" data-path="optimal-pricing.html"><a href="optimal-pricing.html"><i class="fa fa-check"></i><b>9</b> Optimal pricing</a>
